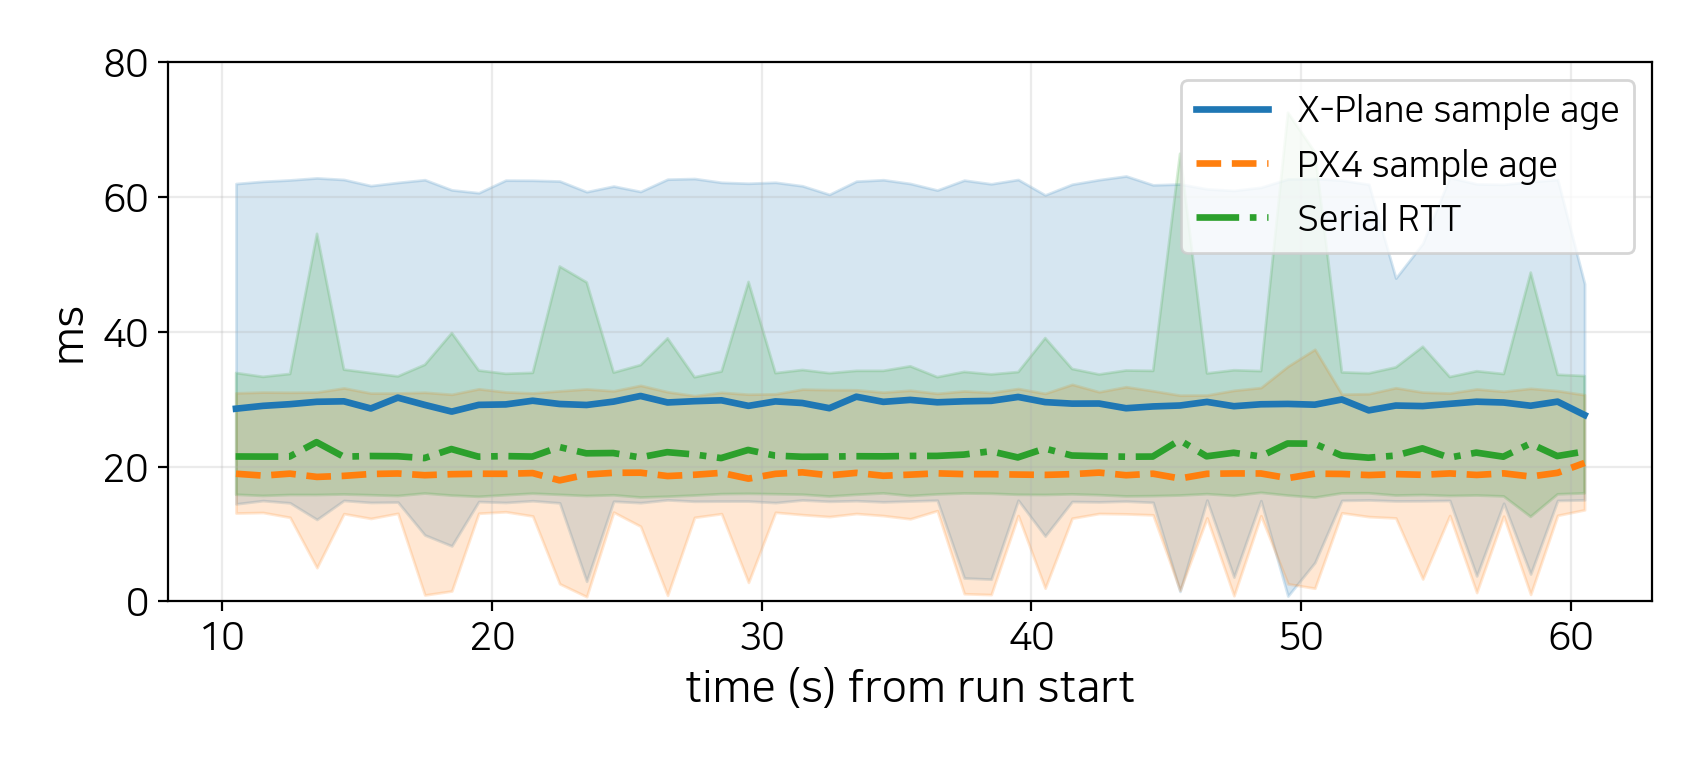
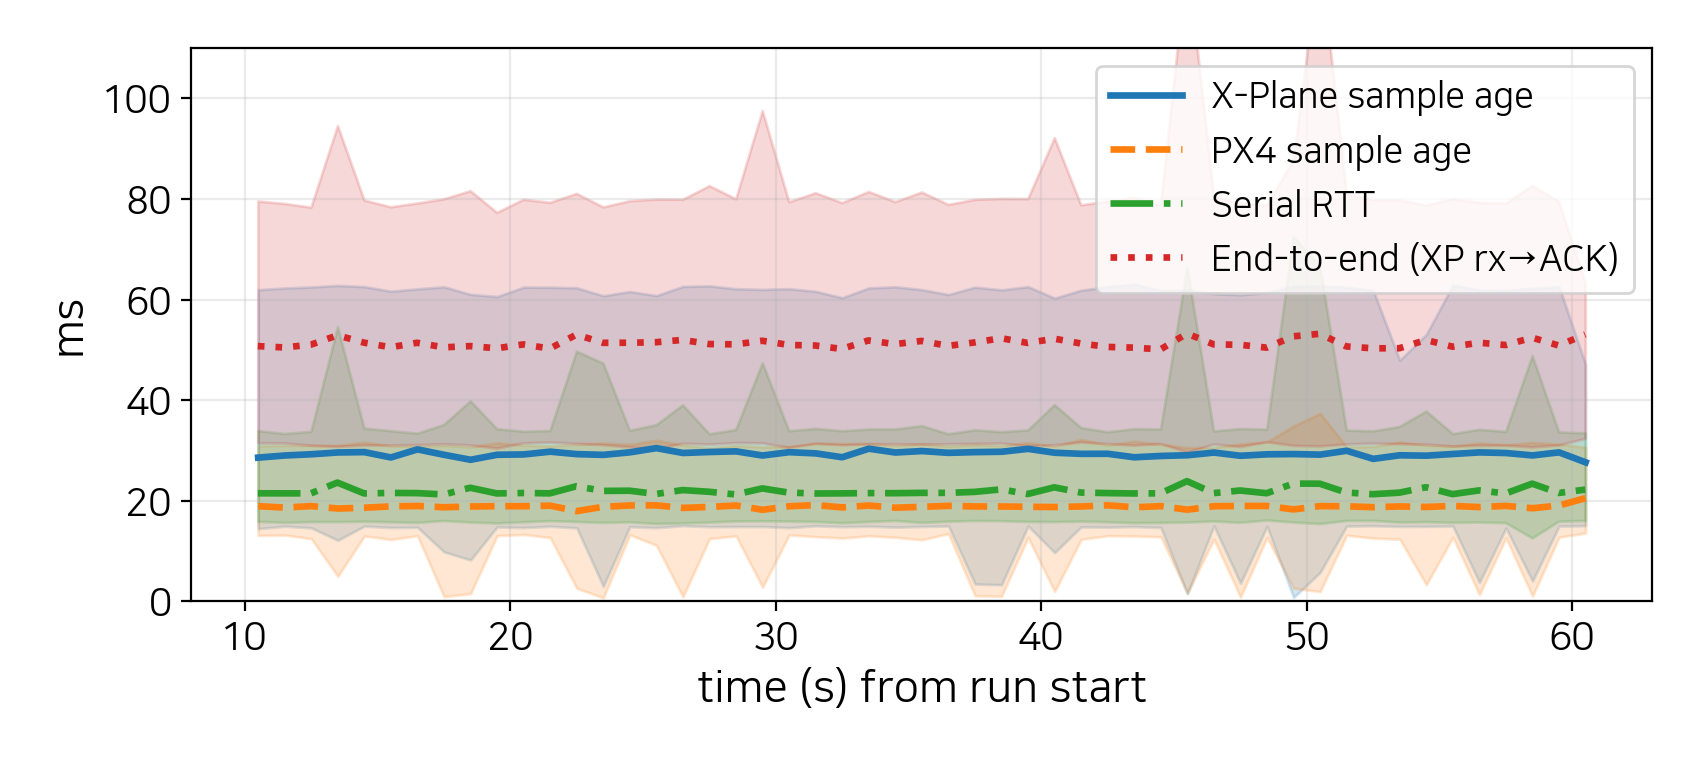
Enhance Fig_Gen.py to include end-to-end latency visualization and adjust figure layouts
- Added end-to-end (XP rx→ACK) latency data to the time series and boxplot figures.
- Updated axis limits and legend positioning for improved clarity and aesthetics.
- Adjusted y-axis limits for better representation of latency distributions.
- Saved updated figures reflecting these changes.

diff --git a/presentation/Fig_Gen.py b/presentation/Fig_Gen.py
@@ -221,12 +221,29 @@ def fig5_latency(
         _band(ax_a, ack_t, ack_y,
               ack_edges, ack_centers, "tab:green", "Serial RTT", "-.")
 
+        e2e_mask = ack_mask & np.isfinite(run_hero.e2e_xp_ms_by_ack)
+        if np.any(e2e_mask):
+            e2e_t = run_hero.ack_t_s[e2e_mask]
+            e2e_y = run_hero.e2e_xp_ms_by_ack[e2e_mask]
+            e2e_edges = np.arange(e2e_t.min(), e2e_t.max() + BIN_S, BIN_S)
+            e2e_centers = 0.5 * (e2e_edges[:-1] + e2e_edges[1:])
+            _band(ax_a, e2e_t, e2e_y,
+                  e2e_edges, e2e_centers, "tab:red", "End-to-end (XP rx→ACK)", ":")
+
     ax_a.set_xlabel("time (s) from run start")
     ax_a.set_ylabel("ms")
-    ax_a.set_ylim(0, 80)
+    ax_a.set_xlim(float(t_an.min()), float(t_an.max()))
+    ax_a.set_ylim(0, 120)
     ax_a.grid(True, alpha=0.25)
-    ax_a.legend(loc="upper right")
-    fig_a.tight_layout()
+    ax_a.legend(
+        loc="upper left",
+        bbox_to_anchor=(1.01, 1.0),
+        borderaxespad=0.0,
+        fontsize=11,
+        framealpha=0.9,
+    )
+    fig_a.subplots_adjust(right=0.78)
+    fig_a.tight_layout(rect=(0.0, 0.0, 0.78, 1.0))
 
     out_a = OUT_DIR / "Fig5a_Latency_TimeSeries.png"
     fig_a.savefig(out_a, dpi=DPI)
@@ -239,19 +256,26 @@ def fig5_latency(
         [r.px4_age_ms[r.analysis_mask] for r in runs_baseline])
 
     serial_rtt_parts: list[np.ndarray] = []
+    e2e_parts: list[np.ndarray] = []
     for r in runs_baseline:
         if r.ack_t_s.size == 0:
             continue
         ack_mask = (np.isfinite(r.ack_t_s)
                     & (r.ack_t_s >= float(SKIP_FIRST_S)))
         serial_rtt_parts.append(r.serial_rtt_ms_by_ack[ack_mask])
+        e2e_mask = ack_mask & np.isfinite(r.e2e_xp_ms_by_ack)
+        if np.any(e2e_mask):
+            e2e_parts.append(r.e2e_xp_ms_by_ack[e2e_mask])
     serial_rtt_all = (np.concatenate(serial_rtt_parts)
                       if serial_rtt_parts
                       else np.zeros(0, dtype=float))
+    e2e_all = (np.concatenate(e2e_parts)
+               if e2e_parts
+               else np.zeros(0, dtype=float))
 
     fig_b, ax_b = plt.subplots(1, 1, figsize=(FIG5B_W, 3.8))
-    data = [xp_age_all, px_age_all, serial_rtt_all]
-    labels = ["X-Plane\nsample age", "PX4\nsample age", "Serial\nRTT"]
+    data = [xp_age_all, px_age_all, serial_rtt_all, e2e_all]
+    labels = ["X-Plane\nsample age", "PX4\nsample age", "Serial\nRTT", "End-to-end\n(XP rx→ACK)"]
     ax_b.boxplot(
         data,
         tick_labels=labels,
@@ -262,7 +286,7 @@ def fig5_latency(
         medianprops={"linewidth": 2.2},
     )
     ax_b.set_ylabel("ms")
-    ax_b.set_ylim(0, 80)
+    ax_b.set_ylim(0, 110)
     ax_b.grid(True, axis="y", alpha=0.25)
     fig_b.tight_layout()
 
